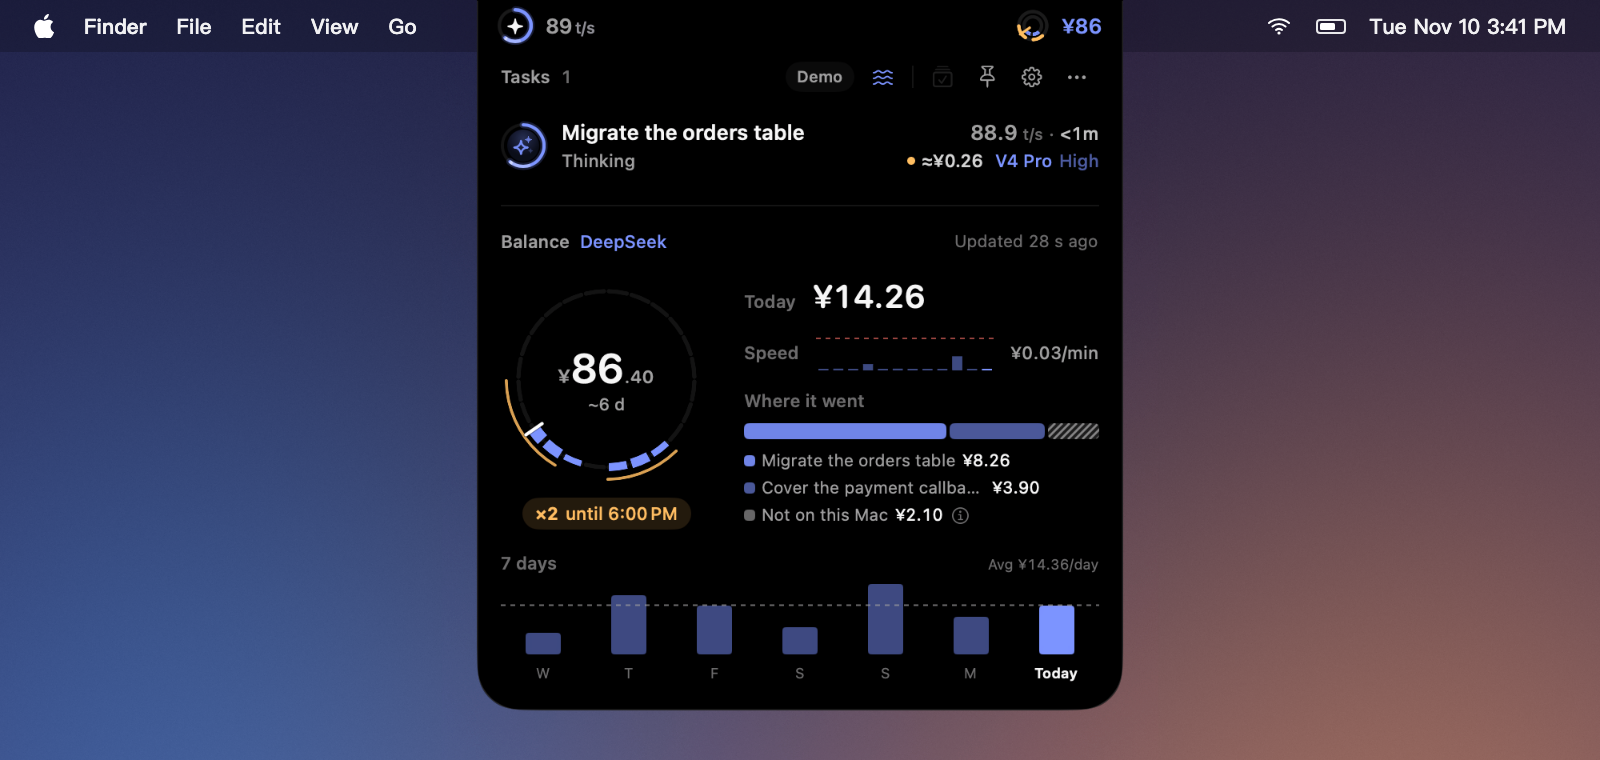
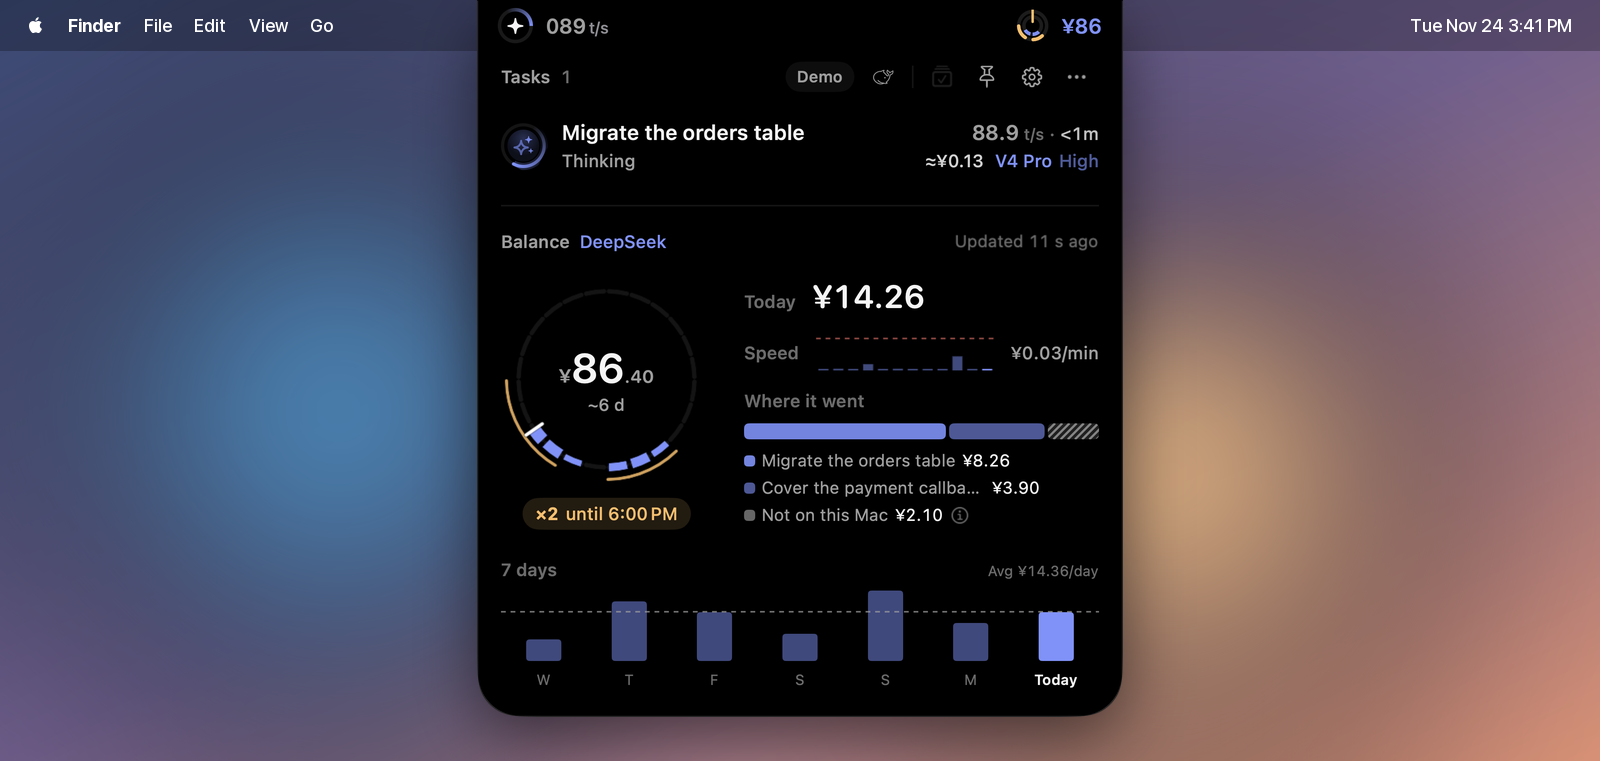
Re-shoot the README and guide images from 4.8
Every README and guide still now comes from the 4.8 app in its own
language. The cover shows Codex, Claude Code and Antigravity, with the
Claude task's subagents listed under it; quota adds Antigravity; the
ring states, approval, collaboration, bar forms, collapsed bar,
expanded panel and DeepSeek panel are new captures too. The social
preview is redrawn around the same cover.

diff --git a/README.md b/README.md
@@ -33,7 +33,7 @@ Pacer keeps an eye on every task for you, so you stay focused and get more done.
 
 [Features](#features) · [Supported agents](#supported-agents) · [Install](#install) · [User Guide](docs/guide.md) · [Community](#community) · [简体中文](README.zh-CN.md)
 
-<p><img src="docs/assets/readme-hero.png" width="100%" alt="Codex Pacer with sample data: three tasks from different agents, each with a progress ring around its icon, its speed and its model"></p>
+<p><img src="docs/assets/readme-hero.png" width="100%" alt="Codex Pacer with sample data: tasks from Antigravity, Codex and Claude Code, each with a progress ring around its icon, its speed and its model, and the Claude task's two subagents listed under it"></p>
 
 </div>
 
@@ -116,7 +116,7 @@ The welcome guide walks you through these when you first open Pacer.
 
 Codex and Claude show their 5-hour and weekly quota on one ring, with a tick for an even pace and a forecast for the reset. DeepSeek shows your balance and today's spend hour by hour, with budgets if you want them. WorkBuddy shows this month's credits and when extra credits expire. Antigravity shows short-term and weekly quota for each model group.
 
-<img src="docs/assets/readme-quota.png" width="100%" alt="Codex and Claude quota, each with its 5-hour and weekly windows, pace and a forecast for the reset">
+<img src="docs/assets/readme-quota.png" width="100%" alt="Codex, Claude and Antigravity quota, each with its 5-hour and weekly windows, pace and a forecast for the reset">
 
 <a id="collab"></a>
 
